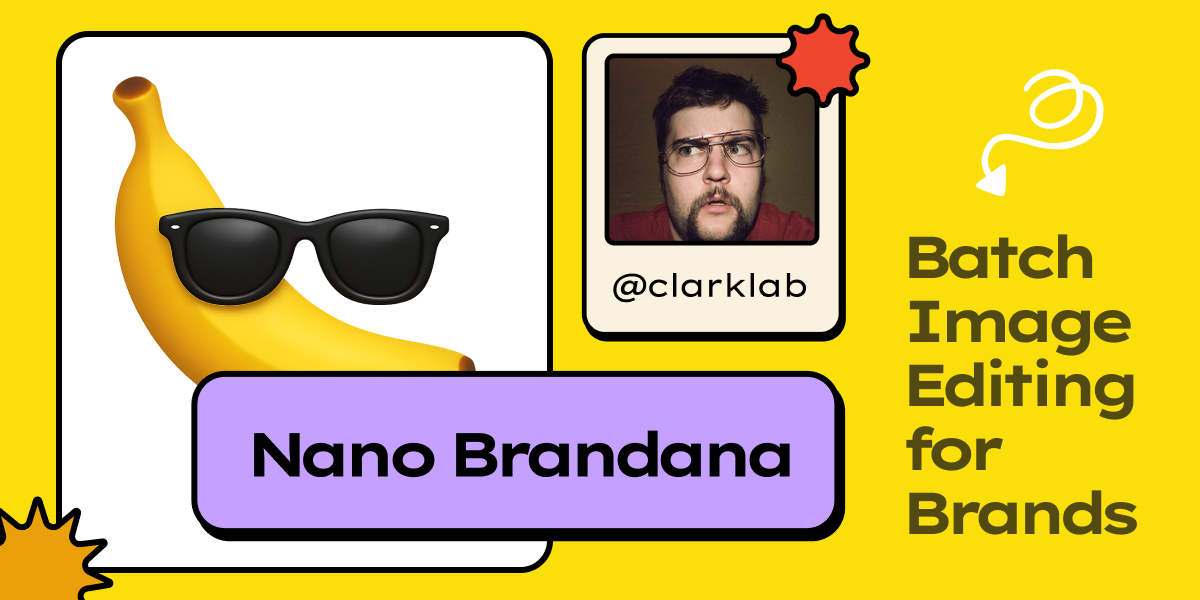
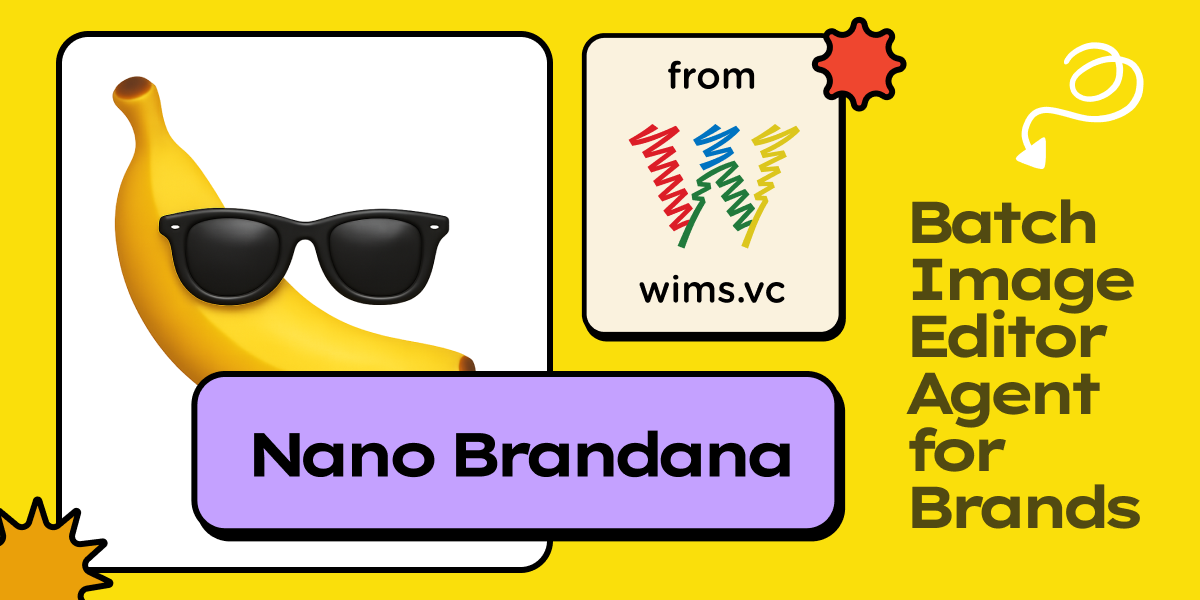
intro

diff --git a/src/components/IntroModal.tsx b/src/components/IntroModal.tsx
@@ -30,7 +30,7 @@ export const IntroModal: React.FC<IntroModalProps> = ({ isOpen, onClose }) => {
               <img src="/brandana.webp" alt="Brandana" className="w-16 h-16" />
               <div>
                 <h1 className="text-2xl font-bold">NANO-BRANDANA</h1>
-                <p className="text-sm font-light">BATCH IMAGE EDITOR FOR BRANDS</p>
+                <p className="text-sm font-light">BATCH IMAGE EDITOR AGENT FOR BRANDS</p>
               </div>
             </div>
             
@@ -49,11 +49,19 @@ export const IntroModal: React.FC<IntroModalProps> = ({ isOpen, onClose }) => {
               <p className="text-sm">
                 Perfect for social media content, product photos, marketing materials, and brand consistency.
               </p>
+              
+              <p>
+                <a href="" onClick={handleClose} className="get-started-link underline decoration-neon decoration-2 decoration-offset-2">Get Started</a>
+                
+              </p>
             </div>
             
             <div className="inline-flex items-center gap-2">
-              <span className="bg-black text-white px-2 py-1 text-xs font-bold">
-                POWERED BY VERCEL AI GATEWAY
+              <span className="bg-black text-white px-3 py-2 text-xs font-bold rounded-lg flex items-center gap-2">
+              <svg width="12" height="12" viewBox="0 0 18 16" fill="none" xmlns="http://www.w3.org/2000/svg">
+<path d="M9 0.205765L18 15.7942H0L9 0.205765Z" fill="white"/>
+</svg>
+POWERED BY VERCEL AI GATEWAY
               </span>
             </div>
           </div>

diff --git a/src/App.tsx b/src/App.tsx
@@ -244,7 +244,7 @@ function App() {
             <img src="/brandana.webp" alt="Brandana" className="w-12 h-12" />
             <div>
               <h1 className="text-xl font-bold">NANO-BRANDANA</h1>
-              <p className="text-sm">BATCH IMAGE EDITOR FOR BRANDS</p>
+              <p className="text-sm">BATCH IMAGE EDITOR AGENT FOR BRANDS</p>
             </div>
           </div>
           <div className="flex items-center gap-2">
